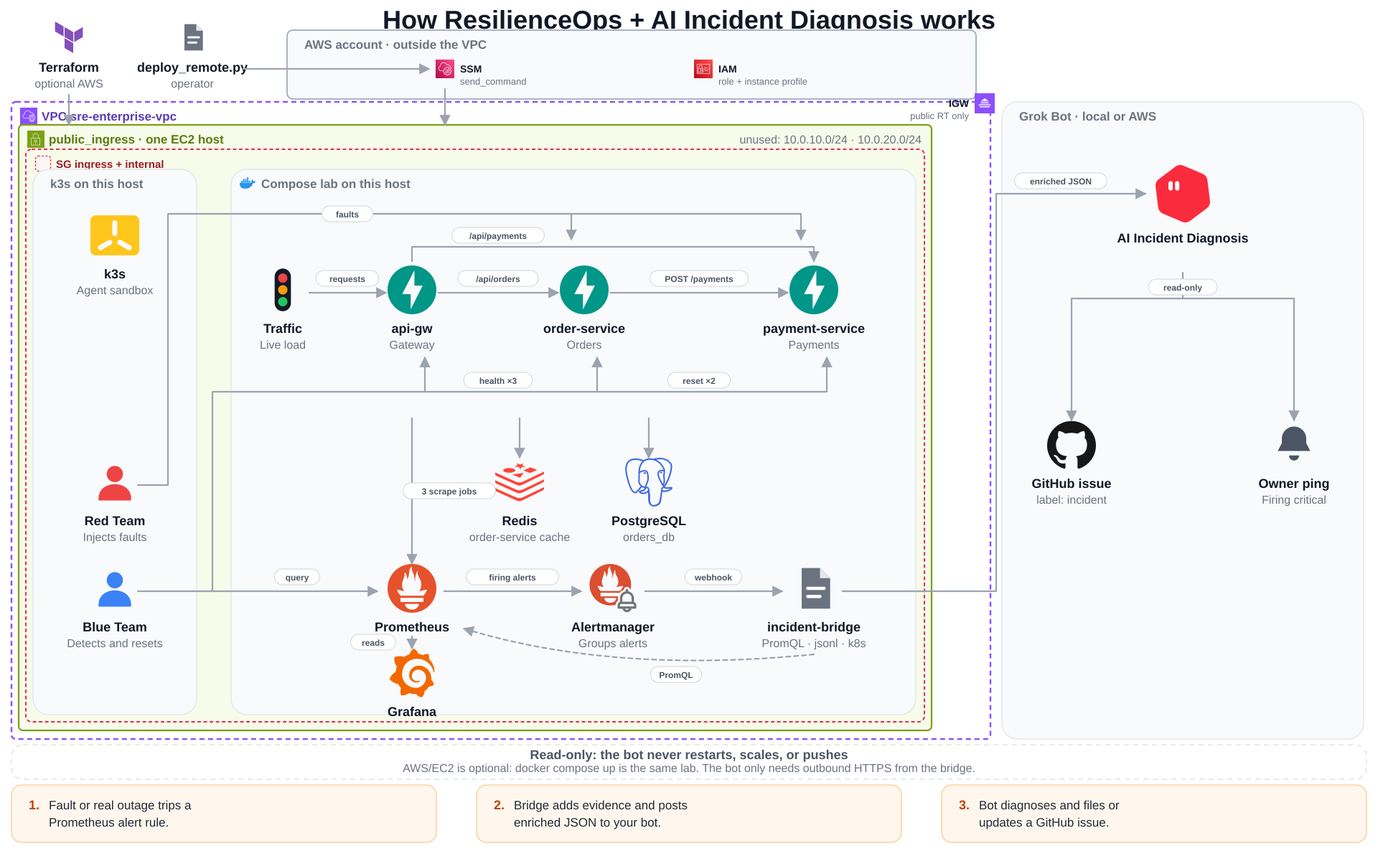
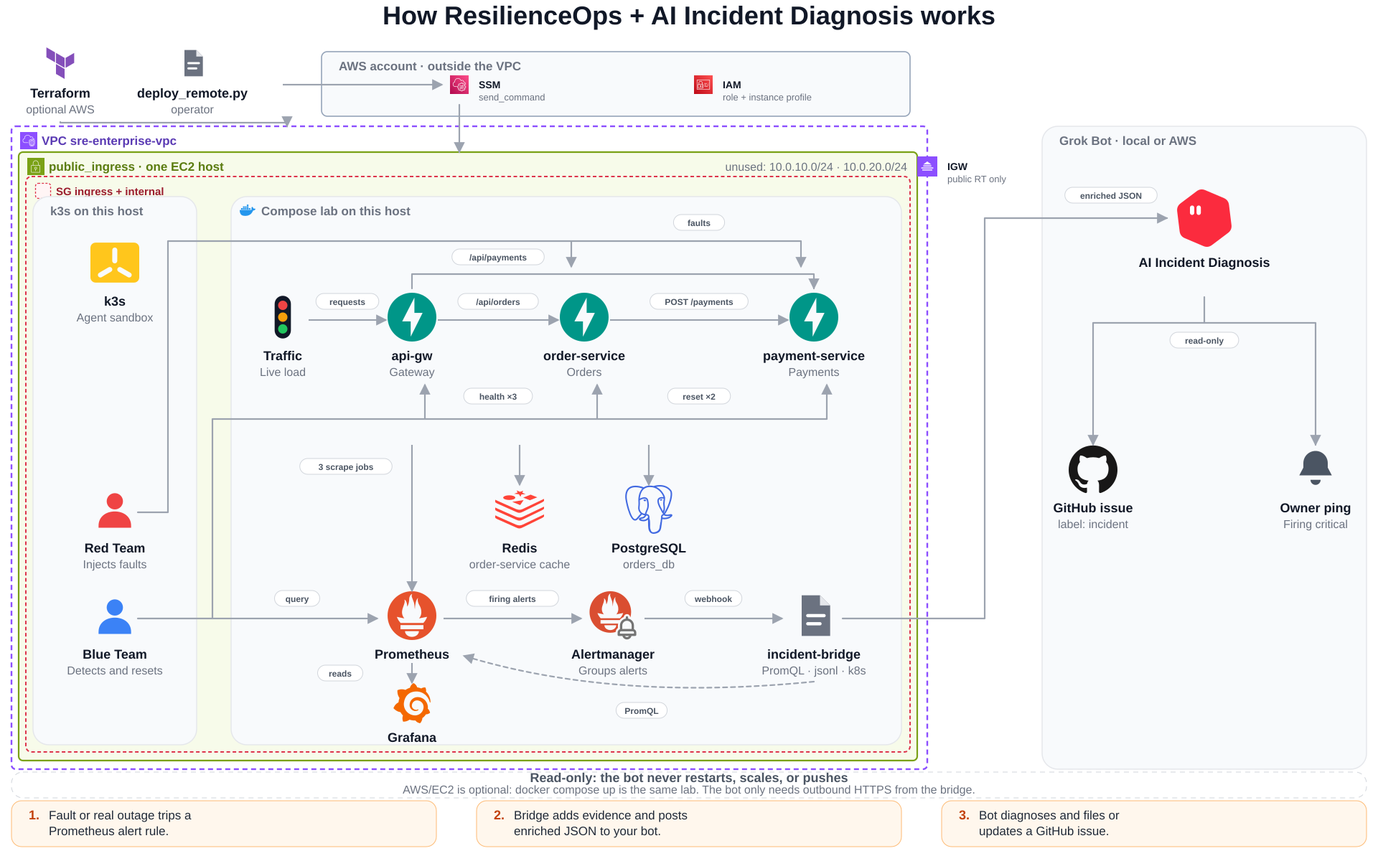
Clear 2x overlaps on the architecture figure.
Keep the title in a reserved top band so it no longer clips the AWS-account
strip. Start deploy_remote.py → SSM past the name, L-route Terraform onto
the VPC border to the right of the VPC title, and straddle the IGW icon on
the right border with labels in the gutter. Lift health ×3, reset ×2,
faults, PromQL, and the other pills off every shaft and group stroke.

diff --git a/scripts/build_architecture.py b/scripts/build_architecture.py
@@ -327,11 +327,17 @@ def satellite(
     size: float = 26,
     label_side: str = "right",
 ) -> str:
-    """Small icon with the name beside it — an attachment, not a chained node."""
+    """Small icon with the name beside or below it — an attachment, not a chained node."""
+    if label_side == "below":
+        return f"""  <g transform="translate({x:.0f},{y:.0f})">
+    <use href="#i-{icon}" xlink:href="#i-{icon}" x="{-size / 2:.1f}" y="{-size / 2:.1f}" width="{size:.0f}" height="{size:.0f}"/>
+    <text class="name" y="{size / 2 + 16:.0f}" text-anchor="middle" style="font-size:14px">{name}</text>
+    <text class="cap" y="{size / 2 + 32:.0f}" text-anchor="middle" style="font-size:13px">{cap}</text>
+  </g>"""
     if label_side == "left":
-        tx, anchor = -(size / 2 + 8), "end"
+        tx, anchor = -(size / 2 + 10), "end"
     else:
-        tx, anchor = size / 2 + 8, "start"
+        tx, anchor = size / 2 + 14, "start"
     return f"""  <g transform="translate({x:.0f},{y:.0f})">
     <use href="#i-{icon}" xlink:href="#i-{icon}" x="{-size / 2:.1f}" y="{-size / 2:.1f}" width="{size:.0f}" height="{size:.0f}"/>
     <text class="name" x="{tx:.0f}" y="5" text-anchor="{anchor}" style="font-size:14px">{name}</text>
@@ -359,16 +365,16 @@ def _icon_top(node_y: float) -> float:
 def build() -> str:
     W, H = 1920, 1200
 
-    # Operator (Terraform, deploy_remote.py) and AWS-account services (IAM, SSM)
-    # sit ABOVE the VPC. The VPC starts lower so those nodes are never inside
-    # public_ingress. IGW sits on the VPC border; SG wraps the EC2 host only.
+    # Title band is 0–58 (36px type, baseline y=34). Nothing else may enter
+    # that band — the AWS-account strip starts below it. IGW straddles the
+    # VPC *right* border; labels sit in the VPC–Grok gutter, off the stroke.
     aws_icon = 44
-    tf_x, deploy_x, op_y = 96, 268, 82
-    acct_x, acct_y, acct_w, acct_h = 400, 42, 960, 96
-    iam_x, ssm_x, acct_node_y = 980, 620, 96
+    tf_x, deploy_x, op_y = 84, 268, 118  # icon top = 66, fully below the title
+    acct_x, acct_y, acct_w, acct_h = 448, 72, 820, 90  # 72–162, under the title
+    iam_x, ssm_x, acct_node_y = 980, 640, 118
 
-    vpc_x, vpc_y, vpc_w, vpc_h = 16, 142, 1364, 888  # bottom 1030
-    bot_x, bot_y, bot_w, bot_h = 1396, 142, 504, 888
+    vpc_x, vpc_y, vpc_w, vpc_h = 16, 176, 1276, 896  # right 1292, bottom 1072
+    bot_x, bot_y, bot_w, bot_h = 1452, 176, 452, 896  # gutter 160px for IGW labels
     col_bottom = vpc_y + vpc_h
 
     g_bot = group(bot_x, bot_y, bot_w, bot_h, "Grok Bot  ·  local or AWS")
@@ -382,9 +388,10 @@ def build() -> str:
         style="account",
     )
 
-    # Green public subnet fills the VPC except a right gutter for the IGW on the border.
-    subnet_x, subnet_y = vpc_x + 10, vpc_y + 32
-    subnet_w, subnet_h = vpc_w - 92, vpc_h - 44
+    # Green public subnet fills the VPC except a slim right gutter (IGW labels
+    # live *outside* the purple border, in the VPC–Grok gap).
+    subnet_x, subnet_y = vpc_x + 10, vpc_y + 36
+    subnet_w, subnet_h = vpc_w - 24, vpc_h - 48
     g_subnet = group(
         subnet_x, subnet_y, subnet_w, subnet_h,
         "public_ingress  ·  one EC2 host",
@@ -416,7 +423,7 @@ def build() -> str:
     r1 = nested_y + 210  # Traffic / api-gw / order / payment (room above for Red flyover)
     r2 = r1 + 268  # Redis + Postgres under order-service; Red Team in k3s
     r3 = r2 + 148  # Prometheus → Alertmanager → incident-bridge; Blue Team
-    graf_y = nested_y + nested_h - 16  # Grafana under Prometheus, not on the alert row
+    graf_y = nested_y + nested_h - 22  # Grafana under Prometheus, not on the alert row
 
     k3s_cx = k3s_x + k3s_w / 2
     k3s_node_y = nested_y + LABEL_BAND + ICON + 10
@@ -425,8 +432,9 @@ def build() -> str:
     prom_x, am_x, br_x = gw_x, os_x + 40, ps_x
     graf_x = prom_x
 
-    # IGW sits on the VPC top-right border (outside the green subnet).
-    igw_x, igw_y = vpc_x + vpc_w - 8, vpc_y + 2
+    # IGW icon sits on the VPC right border (straddles the stroke). Labels
+    # hang to the right, fully in the gutter — not on the dashed line.
+    igw_x, igw_y = vpc_x + vpc_w, vpc_y + 56
 
     bot_cx = bot_x + bot_w / 2
     bot_avatar_y = bot_y + 160
@@ -438,7 +446,7 @@ def build() -> str:
         node(deploy_x, op_y, "document", "deploy_remote.py", "operator", size=aws_icon),
         satellite(iam_x, acct_node_y, "aws-iam", "IAM", "role + instance profile"),
         satellite(ssm_x, acct_node_y, "aws-ssm", "SSM", "send_command"),
-        satellite(igw_x, igw_y, "aws-igw", "IGW", "public RT only", size=28, label_side="left"),
+        satellite(igw_x, igw_y, "aws-igw", "IGW", "public RT only", size=28, label_side="right"),
         node(k3s_cx, k3s_node_y, "k3s", "k3s", "Agent sandbox"),
         node(k3s_cx, r2, "person-red", "Red Team", "Injects faults"),
         node(k3s_cx, r3, "person-blue", "Blue Team", "Detects and resets"),
@@ -451,7 +459,7 @@ def build() -> str:
         node(prom_x, r3, "prometheus", "Prometheus", ""),
         node(am_x, r3, "alertmanager", "Alertmanager", "Groups alerts"),
         node(br_x, r3, "document", "incident-bridge", "PromQL · jsonl · k8s"),
-        node(graf_x, graf_y, "grafana", "Grafana", ""),
+        node(graf_x, graf_y, "grafana", "Grafana", "", size=56),
         grok_avatar(bot_cx, bot_avatar_y, "AI Incident Diagnosis", ""),
         node(gh_x, bot_row_y, "github", "GitHub issue", "label: incident"),
         node(ping_x, bot_row_y, "bell", "Owner ping", "Firing critical"),
@@ -484,7 +492,7 @@ def build() -> str:
 {symbols()}
   </defs>
   <rect width="{W}" height="{H}" fill="#FFFFFF"/>
-  <text x="{W / 2:.0f}" y="40" text-anchor="middle" class="title">How ResilienceOps + AI Incident Diagnosis works</text>
+  <text x="{W / 2:.0f}" y="34" text-anchor="middle" class="title">How ResilienceOps + AI Incident Diagnosis works</text>
 '''
     ]
     parts.append(g_acct)
@@ -509,7 +517,7 @@ def build() -> str:
     k3s_right = k3s_cx + 32
     db_top = _icon_top(r2)
     prom_top = _icon_top(r3)
-    graf_top = _icon_top(graf_y)
+    graf_top = graf_y - 56 - 8  # Grafana is drawn at size 56, not ICON
     pay_y = nested_y + 108
     # Red flies over the services (above the /api/payments U-turn) and ticks
     # down into order-service and payment-service. Blue stays in the corridor
@@ -520,17 +528,24 @@ def build() -> str:
     metrics_from = r1 + 136
     host_top = subnet_y
 
-    # 1. Terraform (operator laptop, outside AWS) → public_ingress / EC2 host.
-    # Start below the "optional AWS" caption so the shaft does not run through type.
+    # 1. Terraform (operator laptop, outside AWS) → VPC border, *right of*
+    # the "VPC  sre-enterprise-vpc" title so the shaft never bisects the type.
+    # Run the elbow just above the VPC stroke (not up at the "operator" cap).
+    vpc_label_right = vpc_x + 250  # icon + "VPC  sre-enterprise-vpc"
+    tf_land_x = max(vpc_label_right + 24, 400)
+    tf_run_y = vpc_y - 5
     parts.append(poly([
-        (tf_x, op_y + 50),
-        (tf_x, host_top),
+        (tf_x, op_y + 52),
+        (tf_x, tf_run_y),
+        (tf_land_x, tf_run_y),
+        (tf_land_x, vpc_y),
     ]))
 
-    # 1b. deploy_remote.py → SSM (AWS account, outside the VPC) → EC2 host.
-    # Horizontal sits on the satellite baseline, below the account title and
-    # left of IAM (IAM is to the right of SSM).
-    parts.append(arrow(deploy_x + 70, acct_node_y, ssm_x - 22, acct_node_y))
+    # 1b. deploy_remote.py → SSM → EC2. Start at the right edge of the
+    # name (plus a gap), at the operator origin so the shaft is between the
+    # icon and the "deploy_remote.py" label — never through the type.
+    deploy_label_right = deploy_x + 110  # 18px bold "deploy_remote.py" ~160px wide
+    parts.append(arrow(deploy_label_right + 16, op_y, ssm_x - 24, acct_node_y))
     parts.append(poly([
         (ssm_x, acct_node_y + 28),
         (ssm_x, host_top),
@@ -540,9 +555,9 @@ def build() -> str:
     parts.append(arrow(tg_x + 36, svc_ic, gw_x - 36, svc_ic))
     parts.append(arrow(gw_x + 36, svc_ic, os_x - 36, svc_ic))
     parts.append(arrow(os_x + 36, svc_ic, ps_x - 36, svc_ic))
-    parts.append(pill((tg_x + gw_x) / 2, svc_ic - 20, "requests"))
-    parts.append(pill((gw_x + os_x) / 2, svc_ic - 20, "/api/orders"))
-    parts.append(pill((os_x + ps_x) / 2, svc_ic - 20, "POST /payments"))
+    parts.append(pill((tg_x + gw_x) / 2, svc_ic - 26, "requests"))
+    parts.append(pill((gw_x + os_x) / 2, svc_ic - 26, "/api/orders"))
+    parts.append(pill((os_x + ps_x) / 2, svc_ic - 26, "POST /payments"))
 
     # 5. api-gw → payment-service proxy. U-turn above the icons, below the group label.
     parts.append(poly([
@@ -551,7 +566,7 @@ def build() -> str:
         (ps_x, pay_y),
         (ps_x, _icon_top(r1) - 6),
     ]))
-    parts.append(pill((gw_x + os_x) / 2, pay_y - 16, "/api/payments"))
+    parts.append(pill((gw_x + os_x) / 2, pay_y - 24, "/api/payments"))
 
     # 6–7. order-service → Redis and PostgreSQL. Two short straight drops.
     # Drops start below the Red/Blue corridor; nothing else uses this column.
@@ -560,7 +575,8 @@ def build() -> str:
 
     # 8. Red Team → order-service and payment-service (not Traffic). Climbs
     # inside k3s (alley_red), flies over the service icons, then a short
-    # bracket ticks down into both targets. Pill sits on that flyover.
+    # bracket ticks down into both targets. Pill sits *above* the flyover,
+    # between the ticks — not on the shaft and not under the Compose title.
     # Does not cross Blue's spine (Blue is below the row).
     red_tick_end = pay_y - 10  # stop above the /api/payments U-turn; no crossing
     parts.append(poly([
@@ -571,7 +587,9 @@ def build() -> str:
     ], marked=False))
     parts.append(arrow(os_x - 18, red_y, os_x - 18, red_tick_end))
     parts.append(arrow(ps_x - 18, red_y, ps_x - 18, red_tick_end))
-    parts.append(pill((tg_x + gw_x) / 2, red_y, "faults"))
+    # Sit between the two ticks, above the flyover — not under the Compose title
+    # and not on the shaft.
+    parts.append(pill((os_x + ps_x) / 2, red_y - 26, "faults"))
 
     # 9. Blue Team health-checks api-gw, order-service, and payment-service
     # (monitor.py GET /health ×3). Reset POSTs /fault/reset on order-service
@@ -585,33 +603,34 @@ def build() -> str:
     parts.append(arrow(gw_x + 18, health_y, gw_x + 18, svc_bottom))
     parts.append(arrow(os_x + 18, health_y, os_x + 18, svc_bottom))
     parts.append(arrow(ps_x + 18, health_y, ps_x + 18, svc_bottom))
-    parts.append(pill((gw_x + os_x) / 2, health_y - 16, "health ×3"))
-    parts.append(pill((os_x + ps_x) / 2, health_y - 16, "reset ×2"))
+    parts.append(pill((gw_x + os_x) / 2, health_y - 32, "health ×3"))
+    parts.append(pill((os_x + ps_x) / 2, health_y - 32, "reset ×2"))
 
     # 10. Blue Team → Prometheus (query). T-junction at alley_blue; does not
     # cross Red's spine. Stays under Redis/Postgres.
     parts.append(arrow(alley_blue, blue_ic, prom_x - 48, blue_ic))
-    parts.append(pill(tg_x + 20, blue_ic - 20, "query"))
+    parts.append(pill(tg_x + 20, blue_ic - 28, "query"))
 
     # 11. Services → Prometheus. One vertical in the api-gw / Prometheus column.
     parts.append(arrow(gw_x, metrics_from, gw_x, prom_top))
-    parts.append(pill(gw_x + 52, (metrics_from + prom_top) / 2, "3 scrape jobs"))
+    # Left of the scrape vertical, above Redis — never on the Redis icon.
+    parts.append(pill(gw_x - 92, metrics_from + 30, "3 scrape jobs"))
 
     # 12–13. Observability row, left → right, short straight arrows.
     parts.append(arrow(prom_x + 44, blue_ic, am_x - 44, blue_ic))
-    parts.append(pill((prom_x + am_x) / 2, blue_ic - 20, "firing alerts"))
+    parts.append(pill((prom_x + am_x) / 2, blue_ic - 28, "firing alerts"))
     parts.append(arrow(am_x + 44, blue_ic, br_x - 44, blue_ic))
-    parts.append(pill((am_x + br_x) / 2, blue_ic - 20, "webhook"))
+    parts.append(pill((am_x + br_x) / 2, blue_ic - 28, "webhook"))
 
     # 14. Prometheus → Grafana, directly below. Pill sits left of the drop
     # so it does not sit on the PromQL arc.
     parts.append(arrow(prom_x, r3 + 24, prom_x, graf_top))
-    parts.append(pill(prom_x - 54, (r3 + 24 + graf_top) / 2, "reads"))
+    parts.append(pill(prom_x - 100, (r3 + 24 + graf_top) / 2, "reads"))
 
     # 15. Bridge PromQL back to Prometheus. Dip under Alertmanager's caption
     # (empty), arrive at Prometheus from the right, above Grafana.
     parts.append(arc(br_x, r3 + 50, am_x, r3 + 78, prom_x + 72, r3 + 14, dashed=True))
-    parts.append(pill(am_x + 88, r3 + 78, "PromQL"))
+    parts.append(pill(am_x + 40, r3 + 90, "PromQL"))
 
     # 16. Bridge → Grok avatar via the EC2/Grok gutter (orthogonal).
     hex_cy = bot_avatar_y - 32
@@ -622,7 +641,8 @@ def build() -> str:
         (gutter, hex_cy),
         (bot_cx - 52, hex_cy),
     ]))
-    parts.append(pill(gutter + 90, hex_cy - 18, "enriched JSON"))
+    # Fully inside the Grok card, above the incoming shaft — not on the left edge.
+    parts.append(pill(bot_cx - 130, hex_cy - 32, "enriched JSON"))
 
     # 17–18. Grok → GitHub / owner ping: stem down, then orthogonal split.
     out_y = bot_avatar_y + 78
@@ -631,31 +651,33 @@ def build() -> str:
     parts.append(poly([(bot_cx, out_y), (bot_cx, fork_y)], marked=False))
     parts.append(poly([(bot_cx, fork_y), (gh_x, fork_y), (gh_x, gh_top)]))
     parts.append(poly([(bot_cx, fork_y), (ping_x, fork_y), (ping_x, gh_top)]))
-    parts.append(pill(bot_cx, fork_y - 16, "read-only"))
+    # Below the fork horizontal (the stem has already ended) so the pill
+    # does not sit on the T-junction.
+    parts.append(pill(bot_cx, fork_y + 24, "read-only"))
 
-    gate_y = col_bottom + 8
+    gate_y = col_bottom + 4
     parts.append(
-        f'  <rect x="16" y="{gate_y:.0f}" width="1888" height="48" rx="16" fill="#FFFFFF" '
+        f'  <rect x="16" y="{gate_y:.0f}" width="1888" height="36" rx="16" fill="#FFFFFF" '
         f'stroke="#D1D5DB" stroke-dasharray="7 6"/>'
     )
     parts.append(
-        f'  <text x="960" y="{gate_y + 20:.0f}" text-anchor="middle" class="gate">'
+        f'  <text x="960" y="{gate_y + 14:.0f}" text-anchor="middle" class="gate">'
         "Read-only: the bot never restarts, scales, or pushes</text>"
     )
     parts.append(
-        f'  <text x="960" y="{gate_y + 38:.0f}" text-anchor="middle" class="gate-sub">'
+        f'  <text x="960" y="{gate_y + 30:.0f}" text-anchor="middle" class="gate-sub">'
         "AWS/EC2 is optional: docker compose up is the same lab. "
         "The bot only needs outbound HTTPS from the bridge.</text>"
     )
 
-    card_y = gate_y + 56
+    card_y = gate_y + 40
 
     def card2(n: int, x: float, line1: str, line2: str) -> str:
         return f"""  <g transform="translate({x:.0f},{card_y:.0f})">
-    <rect width="592" height="80" rx="14" fill="#FFF7ED" stroke="#FDBA74"/>
-    <text x="24" y="34" class="card-n">{n}.</text>
-    <text x="52" y="34" class="card-t">{line1}</text>
-    <text x="52" y="58" class="card-t">{line2}</text>
+    <rect width="592" height="64" rx="14" fill="#FFF7ED" stroke="#FDBA74"/>
+    <text x="24" y="26" class="card-n">{n}.</text>
+    <text x="52" y="26" class="card-t">{line1}</text>
+    <text x="52" y="48" class="card-t">{line2}</text>
   </g>"""
 
     parts.append(card2(1, 16, "Fault or real outage trips a", "Prometheus alert rule."))

diff --git a/docs/ACCURACY.md b/docs/ACCURACY.md
@@ -36,12 +36,13 @@ Compose + k3s, local vs AWS, optional fault injection, bot outbound HTTPS only.
 | Sample output led with synthetic issue #4 | Primary sample is live issue #5; #4 demoted |
 | Live-run hops were reconstructed (~12s / ~61s) | Operator table `examples/live_run_issue5_timeline.md` (EDT): **12.1 s** fault→webhook (21:50:59 → 21:51:11.134), **~61 s** `startsAt`→issue #5 (21:51:05.886 → 21:52:06). Redacted bridge lines `examples/live_run_issue5_bridge.log` |
 | Live `httpx` INFO printed the full webhook URL | `app.py:31-32` sets httpx to WARNING. Committed sample log redacts `…/automations/webhook/<redacted>` |
-| Terraform / IAM / SSM / IGW drawn inside `public_ingress` | Terraform + `deploy_remote.py` are operator-side (above the VPC). IAM + SSM sit in an **AWS account** strip outside the VPC, with `deploy_remote.py → SSM → EC2`. IGW sits on the VPC border. Inside `public_ingress`: k3s, Compose, and a dashed SG around the host (`build_architecture.py:362-400,437-441`) |
+| Terraform / IAM / SSM / IGW drawn inside `public_ingress` | Terraform + `deploy_remote.py` are operator-side (above the VPC). IAM + SSM sit in an **AWS account** strip outside the VPC, with `deploy_remote.py → SSM → EC2`. IGW straddles the VPC **right** border. Inside `public_ingress`: k3s, Compose, and a dashed SG around the host (`build_architecture.py:366-408,435-449`) |
 | Blue Team arrow landed on order-service only | Three ticks: `health ×3` into api-gw, order-service, payment-service (`monitor.py:52-95`); `reset ×2` into order-service and payment-service (`fault_catalog.py:122-132`) |
 | AWS README listed only `sts:GetCallerIdentity`; apply 403'd on a read-only principal | Checked-in operator policy `terraform/deployer-policy.json` (EC2/VPC create+delete, IAM CreateRole/DeleteRole/PassRole/instance-profile, SSM SendCommand/GetCommandInvocation/DescribeInstanceInformation/PutParameter, S3 deploy bucket, CW log groups) |
 | `deploy_remote.py` started a subset of Compose services (no alertmanager / incident-bridge); inline ~98 KB base64 vs 100 KB SSM limit; no `reports/`; printed CommandId only; no SSM Online wait; API-key check read empty SSM env | S3 + presigned GET; `docker compose up --build -d` (all default services) + `--profile agents`; archive includes `reports/`; `wait_for_ssm_online` + `cloud-init status --wait`; `GetCommandInvocation` fail-nonzero; host `.env` from Parameter Store SecureString (`scripts/put_lab_secrets.py`) |
 | `user_data` installed Compose v1; default `t3.small`; no `instance_id`/`region` outputs; IMDS hop 1; instance role SSM-only | Compose v2 plugin (`docker-compose-v2`); default `t3.medium` (~$0.0416/hr + ~$0.005/hr IPv4); outputs `instance_id`, `region`, `deploy_bucket`, `private_ip`; hop limit 2; inline GetParameter / S3 GetObject / `logs:PutLogEvents`; Terraform **log groups** (dashboards still helper scripts) |
 | k3s sandbox undocumented; `orchestrator.py` missing in the pod; `--target-ip` used k8s DNS for Compose apps; faults piled up when Blue did not declare in 9s | `deploy_k8s_sandbox.py` applies `namespace-rbac.yaml` + `agent-sandbox.yaml`, copies repo code, targets host private IP. Orchestrator `finally` always `FaultCatalog.reset_environment()`. Duplicate Path B fingerprint comments on the open GitHub issue |
+| 2× review: title clipped by the AWS-account strip; Terraform shaft bisected `VPC sre-enterprise-vpc`; deploy→SSM started on `deploy_remote.py`; IGW labels sat on the dashed VPC stroke; `health ×3` / `reset ×2` / `faults` / `PromQL` / `enriched JSON` sat on lines | Title reserved in a top band (baseline `y=34`). Terraform L-routes just above the VPC stroke and lands **right of** the VPC title. deploy→SSM starts past the name. IGW icon straddles the **right** border; labels live in the VPC–Grok gutter. Pills sit off their shafts (`build_architecture.py:366-377,435-449,531-548,591,605`) |
 
 ---
 
@@ -49,15 +50,15 @@ Compose + k3s, local vs AWS, optional fault injection, bot outbound HTTPS only.
 
 | Element | What the figure says | Evidence |
 |---|---|---|
-| Canvas | 1920×1200, title “How ResilienceOps + AI Incident Diagnosis works” | `scripts/build_architecture.py:360`, title in `build()` |
-| Operator (outside AWS) | Terraform + `deploy_remote.py` above the VPC | `build_architecture.py:366,437-438`; Terraform is IaC on the operator laptop, not an ENI |
-| AWS account strip | “AWS account  ·  outside the VPC” holds IAM + SSM | `build_architecture.py:367-368,379-383,439-440` |
-| VPC group | Purple dashed, “VPC  sre-enterprise-vpc”, AWS VPC icon | `build_architecture.py:234-241`, `:375-378`; Name tag `terraform/main.tf:74-83` |
-| Public subnet group | Green, “public_ingress  ·  one EC2 host”, public-subnet icon | `build_architecture.py:242-249`, `:388-392`; `terraform/main.tf:93-104` (only subnet with `map_public_ip_on_launch` and the only one associated with the public RT `:144-147`) |
-| SG around host | Dashed red “SG  ingress + internal” wrapping k3s + Compose | `build_architecture.py:251-258,394-401`; SGs `terraform/main.tf:168-239` |
-| k3s group | Nested “k3s on this host” | `build_architecture.py:413`; k3s installed on the **same** EC2 `user_data` `terraform/main.tf:437-456` (`https://get.k3s.io`) |
-| Compose group | Nested “Compose lab on this host”, Docker icon | `build_architecture.py:414`; `docker-compose.yml` entire file; deploy zip includes compose (`deploy_remote.py` `INCLUDE_PATHS`) |
-| Grok column | “Grok Bot  ·  local or AWS” | `build_architecture.py:374`. Bot is imported, not hosted in-repo. Works on laptop Compose or AWS as long as the bridge can POST HTTPS (`README.md:150`, `GROK_WEBHOOK_URL` in `docker-compose.yml:180`) |
+| Canvas | 1920×1200, title “How ResilienceOps + AI Incident Diagnosis works” (top band, baseline `y=34`) | `scripts/build_architecture.py:366`, title in `build()` |
+| Operator (outside AWS) | Terraform + `deploy_remote.py` above the VPC | `build_architecture.py:372,445-446`; Terraform is IaC on the operator laptop, not an ENI |
+| AWS account strip | “AWS account  ·  outside the VPC” holds IAM + SSM, below the title band | `build_architecture.py:373-374,385-389,447-448` |
+| VPC group | Purple dashed, “VPC  sre-enterprise-vpc”, AWS VPC icon | `build_architecture.py:234-241`, `:376-383`; Name tag `terraform/main.tf:74-83` |
+| Public subnet group | Green, “public_ingress  ·  one EC2 host”, public-subnet icon | `build_architecture.py:242-249`, `:393-399`; `terraform/main.tf:93-104` (only subnet with `map_public_ip_on_launch` and the only one associated with the public RT `:144-147`) |
+| SG around host | Dashed red “SG  ingress + internal” wrapping k3s + Compose | `build_architecture.py:258-265,404-408`; SGs `terraform/main.tf:168-239` |
+| k3s group | Nested “k3s on this host” | `build_architecture.py:420`; k3s installed on the **same** EC2 `user_data` `terraform/main.tf:437-456` (`https://get.k3s.io`) |
+| Compose group | Nested “Compose lab on this host”, Docker icon | `build_architecture.py:421`; `docker-compose.yml` entire file; deploy zip includes compose (`deploy_remote.py` `INCLUDE_PATHS`) |
+| Grok column | “Grok Bot  ·  local or AWS” | `build_architecture.py:377,380`. Bot is imported, not hosted in-repo. Works on laptop Compose or AWS as long as the bridge can POST HTTPS (`README.md:150`, `GROK_WEBHOOK_URL` in `docker-compose.yml:180`) |
 | Unused subnets | Caption only (no empty boxes), top-right of `public_ingress`: `unused: 10.0.10.0/24 · 10.0.20.0/24` | `build_architecture.py` unused caption; created `terraform/main.tf:121-142`; **no** `aws_instance` / RT assoc / SG attachment uses them (instance `subnet_id` is `public_ingress` `:413`) |
 
 ---
@@ -66,12 +67,12 @@ Compose + k3s, local vs AWS, optional fault injection, bot outbound HTTPS only.
 
 | Node | Caption on figure | Evidence |
 |---|---|---|
-| Terraform | “optional AWS” (outside the VPC) | `build_architecture.py:437`. AWS is not required for Compose. `terraform/main.tf` is the optional cloud host, run on the operator laptop |
-| deploy_remote.py | “operator” (outside the VPC) | `build_architecture.py:438`; `deploy_remote.py` builds a zip, uploads to S3, `ssm.send_command` |
-| IAM satellite | “role + instance profile” in the AWS account strip | `build_architecture.py:439`; `aws_iam_role.sre_host_role` name `sre-platform-host-role` `terraform/main.tf:245-262`; instance profile `sre-platform-instance-profile` `:323-326` |
-| SSM satellite | “send_command” in the AWS account strip | `build_architecture.py:440`; `AmazonSSMManagedInstanceCore` `terraform/main.tf:265-267`; `deploy_remote.py` `send_and_wait` / `AWS-RunShellScript` |
-| SG box | “ingress + internal” around the host, not a satellite in the subnet | `build_architecture.py:397-401`; `aws_security_group.ingress_sg` `sre-ingress-sg` `terraform/main.tf:168-205`; `internal_app_sg` `sre-internal-app-sg` `:208-239` |
-| IGW satellite | “public RT only”, on the VPC border (outside the green subnet) | `build_architecture.py:429,441`; `aws_internet_gateway.igw` Name `sre-enterprise-igw` `terraform/main.tf:85-91`; public RT `0.0.0.0/0` via IGW `:131-137`; association **only** `public_ingress` `:144-147` |
+| Terraform | “optional AWS” (outside the VPC) | `build_architecture.py:445`. AWS is not required for Compose. `terraform/main.tf` is the optional cloud host, run on the operator laptop |
+| deploy_remote.py | “operator” (outside the VPC) | `build_architecture.py:446`; `deploy_remote.py` builds a zip, uploads to S3, `ssm.send_command` |
+| IAM satellite | “role + instance profile” in the AWS account strip | `build_architecture.py:447`; `aws_iam_role.sre_host_role` name `sre-platform-host-role` `terraform/main.tf:245-262`; instance profile `sre-platform-instance-profile` `:323-326` |
+| SSM satellite | “send_command” in the AWS account strip | `build_architecture.py:448`; `AmazonSSMManagedInstanceCore` `terraform/main.tf:265-267`; `deploy_remote.py` `send_and_wait` / `AWS-RunShellScript` |
+| SG box | “ingress + internal” around the host, not a satellite in the subnet | `build_architecture.py:404-408`; `aws_security_group.ingress_sg` `sre-ingress-sg` `terraform/main.tf:168-205`; `internal_app_sg` `sre-internal-app-sg` `:208-239` |
+| IGW satellite | “public RT only”, straddling the VPC **right** border (labels in the gutter, outside the green subnet) | `build_architecture.py:437,449`; `aws_internet_gateway.igw` Name `sre-enterprise-igw` `terraform/main.tf:85-91`; public RT `0.0.0.0/0` via IGW `:131-137`; association **only** `public_ingress` `:144-147` |
 | k3s | “Agent sandbox” | `k8s/agents/agent-sandbox.yaml:8-11` namespace `sre-agent-sandbox`; README step 10 |
 | Red Team | “Injects faults” | `orchestrator.py:41-44`, `:64-74`; `agents/fault_injector/infra_disruptor.py:31-47`; `agents/fault_injector/network_adversary.py` |
 | Blue Team | “Detects and resets” | `orchestrator.py:46-50`, `:76-114`; `monitor.py`; `remediator.py:24-49` always `FaultCatalog.reset_environment()` |
@@ -97,15 +98,15 @@ IAM has no chain arrow (Terraform creates the role + instance profile). SG is a 
 
 | # | Arrow | Pill | Evidence |
 |---|---|---|---|
-| 1 | Terraform → public_ingress / EC2 host | (none) | Operator laptop, outside AWS. `terraform/main.tf:410-476`. `build_architecture.py:522-527` |
-| 1b | deploy_remote.py → SSM → EC2 host | (none) | `deploy_remote.py` `send_and_wait`. `build_architecture.py:529-536` |
+| 1 | Terraform → VPC border (right of the VPC title) | (none) | Operator laptop, outside AWS. `terraform/main.tf:410-476`. `build_architecture.py:531-542` |
+| 1b | deploy_remote.py → SSM → EC2 host | (none) | `deploy_remote.py` `send_and_wait`. Starts past the `deploy_remote.py` name. `build_architecture.py:544-552` |
 | 2 | Traffic → api-gw | `requests` | `load_generator.py:40`, `:58`, `:78`; compose `GATEWAY_URL=http://api-gw:8000` `docker-compose.yml:124` |
 | 3 | api-gw → order-service | `/api/orders` | `api-gw/main.py:92-111` strips prefix and proxies to `ORDER_SERVICE_URL`; generator POSTs `/api/orders/orders` `load_generator.py:58` |
 | 4 | order-service → payment-service | `POST /payments` | `order-service/main.py:250` `POST {PAYMENT_SERVICE_URL}/payments` |
 | 5 | api-gw → payment-service U-turn | `/api/payments` | `api-gw/main.py:113-132`; generator `/api/payments/payments` `load_generator.py:78` |
 | 6–7 | order-service → Redis / Postgres | (none; short drops) | Redis `setex` and Postgres INSERT in `order-service/main.py` create-order path; compose env `REDIS_HOST=redis`, `POSTGRES_DB=orders_db` |
-| 8 | Red Team → order-service **and** payment-service | `faults` | Infra faults hit order-service (`infra_disruptor.py:40-47`, catalog `/fault/leak-memory`, `/fault/redis-starvation`, `/fault/cpu-burn`, `/fault/crash`). Network faults hit payment-service (`fault_catalog.py:45-80` `/fault/latency`, `/fault/drop-rate` on `eth0`). **Not** Traffic. One flyover + two ticks (`build_architecture.py:548-560`) instead of one arrow per endpoint |
-| 9 | Blue Team → api-gw, order-service, payment-service | `health ×3` and `reset ×2` | `GET /health` on api-gw (4s), order, payment: `monitor.py:52-95`. Reset: `fault_catalog.py:122-132` POSTs `/fault/reset` on **order-service and payment-service only** (api-gw has no `/fault/reset`). Three ticks; two pills (`build_architecture.py:572-589`) |
+| 8 | Red Team → order-service **and** payment-service | `faults` | Infra faults hit order-service (`infra_disruptor.py:40-47`, catalog `/fault/leak-memory`, `/fault/redis-starvation`, `/fault/cpu-burn`, `/fault/crash`). Network faults hit payment-service (`fault_catalog.py:45-80` `/fault/latency`, `/fault/drop-rate` on `eth0`). **Not** Traffic. One flyover + two ticks; pill sits above the shaft (`build_architecture.py:576-591`) instead of one arrow per endpoint |
+| 9 | Blue Team → api-gw, order-service, payment-service | `health ×3` and `reset ×2` | `GET /health` on api-gw (4s), order, payment: `monitor.py:52-95`. Reset: `fault_catalog.py:122-132` POSTs `/fault/reset` on **order-service and payment-service only** (api-gw has no `/fault/reset`). Three ticks; two pills off the bus (`build_architecture.py:593-606`) |
 | 10 | Blue Team → Prometheus | `query` | `monitor.py:15-25`, `:98-110` PromQL if `PROMETHEUS_URL` answers |
 | 11 | Services → Prometheus | `3 scrape jobs` | `prometheus.yml:22-33` jobs `api-gw:8000`, `order-service:8001`, `payment-service:8002`; scrape `1s` `:2` |
 | 12 | Prometheus → Alertmanager | `firing alerts` | `prometheus.yml:14-20` `alertmanager:9093`; rules `dashboards/alerts.yml` |
@@ -113,7 +114,7 @@ IAM has no chain arrow (Terraform creates the role + instance profile). SG is a 
 | 14 | Prometheus → Grafana | `reads` | Grafana is **not** on the alert path. Datasource provisioning `dashboards/provisioning/datasources/prometheus.yaml`. Host Grafana `:3000` (`docker-compose.yml:212`) |
 | 15 | incident-bridge ⇢ Prometheus (dashed) | `PromQL` | `evidence.py:29-67` range queries; `app.py` `collect_evidence` |
 | 16 | incident-bridge → Grok avatar | `enriched JSON` | `app.py` outbound `{status, alerts, evidence, source: "resilienceops"}` (`:155-160`); HTTPS to `GROK_WEBHOOK_URL` |
-| 17–18 | Grok → GitHub / owner ping | `read-only` | Imported bot. Path B never restarts/scales/pushes (`README.md:13`, gate `build_architecture.py:641-648`) |
+| 17–18 | Grok → GitHub / owner ping | `read-only` | Imported bot. Path B never restarts/scales/pushes (`README.md:13`, gate `build_architecture.py:657-670`) |
 
 ---
 
@@ -121,8 +122,8 @@ IAM has no chain arrow (Terraform creates the role + instance profile). SG is a 
 
 | Element | Text | Evidence |
 |---|---|---|
-| Gate line 1 | “Read-only: the bot never restarts, scales, or pushes” | `build_architecture.py:641-643`; bot template (not in-repo). Path A **does** reset/restart when k8s toolkit is available (`remediator.py:24-52`) — that is not the bot |
-| Gate line 2 | “AWS/EC2 is optional: docker compose up is the same lab. The bot only needs outbound HTTPS from the bridge.” | `build_architecture.py:645-648`; local Compose `docker-compose.yml`; bridge POST `forwarding.py:178-236`; no inbound listener on the bot from this repo |
+| Gate line 1 | “Read-only: the bot never restarts, scales, or pushes” | `build_architecture.py:657-665`; bot template (not in-repo). Path A **does** reset/restart when k8s toolkit is available (`remediator.py:24-52`) — that is not the bot |
+| Gate line 2 | “AWS/EC2 is optional: docker compose up is the same lab. The bot only needs outbound HTTPS from the bridge.” | `build_architecture.py:666-670`; local Compose `docker-compose.yml`; bridge POST `forwarding.py:178-236`; no inbound listener on the bot from this repo |
 | Card 1 | “Fault or real outage trips a Prometheus alert rule.” | Fault injection is **optional**. Rules in `dashboards/alerts.yml`. Real `up==0` / SLO / Redis saturation fire without `/fault` |
 | Card 2 | “Bridge adds evidence and posts enriched JSON to your bot.” | `app.py:143-187` |
 | Card 3 | “Bot diagnoses and files or updates a GitHub issue.” | Imported template; samples issues #4 (synthetic) and #5 (live) |
@@ -209,7 +210,7 @@ IAM has no chain arrow (Terraform creates the role + instance profile). SG is a 
 | `teardown.sh` → `terraform destroy -auto-approve` + verify describe-instances / S3 / log groups | `teardown.sh` |
 | k3s sandbox: `deploy_k8s_sandbox.py` applies `namespace-rbac.yaml` then `agent-sandbox.yaml`; copies repo code; `--target-ip` is host private IP | `deploy_k8s_sandbox.py`; `k8s/apps/microservices.yaml` is opt-in `--apply-microservices` |
 | Host pip is **not** required for Compose-only | Service images `pip install -r requirements.txt` in Dockerfiles |
-| Regen PNG: `scripts/render_architecture.sh` / `rsvg-convert` 1920×1200 | `scripts/render_architecture.sh:19-21`; `build_architecture.py:360` |
+| Regen PNG: `scripts/render_architecture.sh` / `rsvg-convert` 1920×1200 | `scripts/render_architecture.sh:19-21`; `build_architecture.py:366` |
 
 Env-var inventory: every `os.getenv` / `_env_int` / `_env_float` name is in `.env.example` and mentioned in the README table — `tests/test_docs_consistency.py:57-72`.
 
